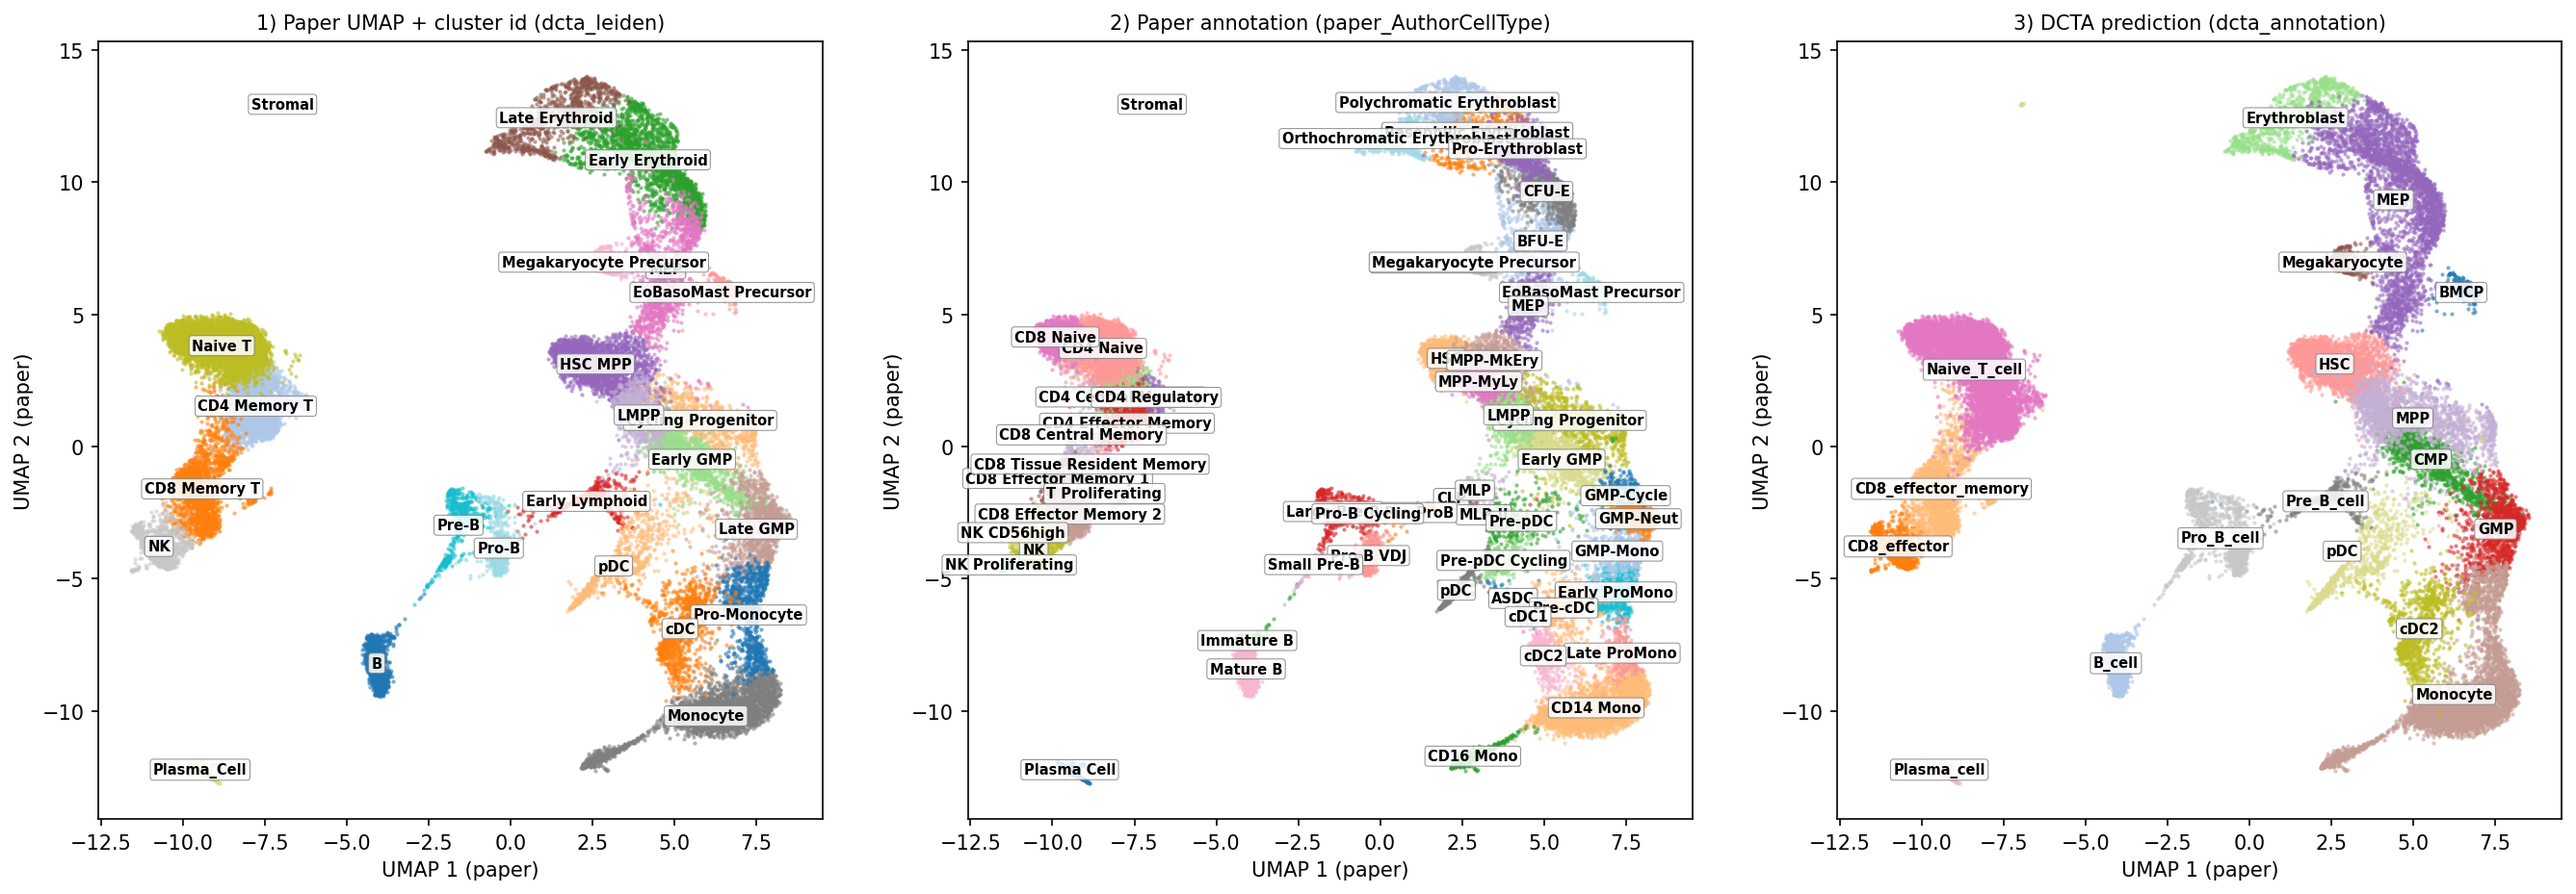
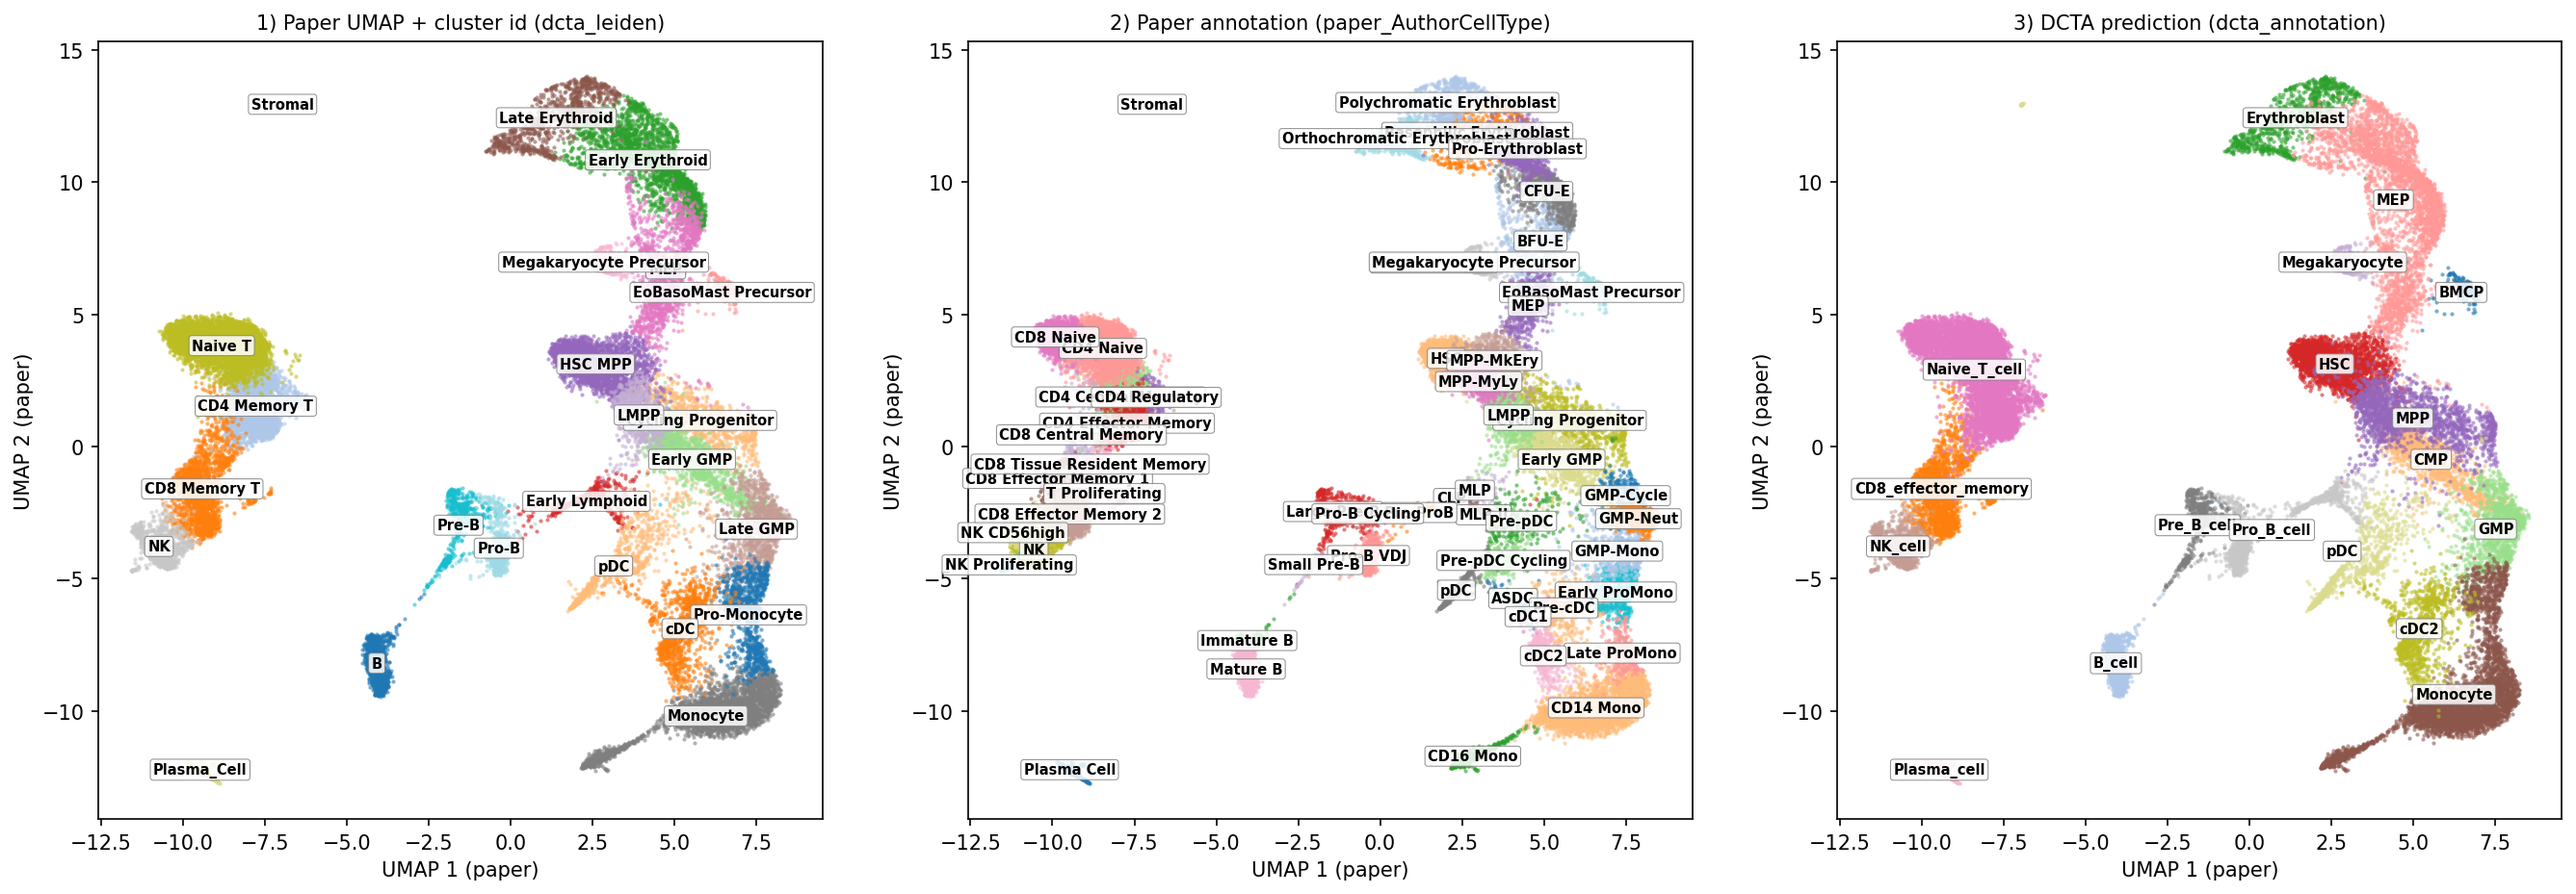
Phase 2.7: redesign B/T/NK marker panels from published references only
User directive: '논문에서만 따온걸 써, 데이터 특성은 쓰지말 것'.
Panels rebuilt strictly from published literature with citations in
the YAML (no Hay-data optimization).

Redesigned 8 cell types:
  Pro_B_cell : DNTT, RAG1, RAG2, EBF1, SOX4, IL7R
               (Hardy & Hayakawa 2001 ARI; Mårtensson 2010 Semin Immunol)
  Pre_B_cell : VPREB1, VPREB2, IGLL1, TCL1A, PAX5, CD79A, CD79B
               (Bagger 2019 NAR; Aoki 2018 Blood; Mårtensson 2010)
  B_cell     : MS4A1, IGHD, FCER2, BANK1, AIM2, NT5E, CD27
               (LeBien & Tedder 2008 Blood; Yokoyama 2002 J Immunol;
                Schroder & Tschopp 2010 Cell)
  Memory_B   : IGHG1-4, CD27, TNFRSF17, MS4A1, AIM2
               (Klein 1998; O'Connor 2004 J Exp Med)
  NK_cell    : KLRF1, KLRD1, KLRC1, NCAM1, FCGR3A, NCR1, NCR3, GNLY,
               PRF1, GZMB, NKG7
               (Vivier 2011 Science; Cooper 2001 TI; Moretta 2001 ARI)
  Naive_T    : CCR7, SELL, S1PR1, LEF1, TCF7, IL7R, CD3D, CD3E
               (Sallusto 1999 Nature; Matloubian 2004 Nature;
                Schluns 2000 Nat Immunol)
  CD4_T      : CD4, IL7R, GATA3, TBX21, RORC, CCR4, CCR6, CD3D, CD3E
               (Zhu 2010 ARI)
  Cytotoxic_CD8: CD8A, CD8B, GZMK, EOMES, TBX21, CD27, CD28, CD3D, CD3E
               (Bratke 2005 EJI; Patil 2018 Sci Immunol)

Each YAML entry now carries an inline comment block listing the
sources for the marker selection. Removed pan-B markers from
stage-specific panels (CD19/PAX5/CD79A no longer cross-contaminate
[…]

Changed region(s): [[0.8381, 0.0936, 0.9933, 0.8741], [0.7139, 0.437, 0.776, 0.6555]]

diff --git a/STATE.md b/STATE.md
@@ -125,6 +125,66 @@ Changed `dcta.dag._longest_path_length` to support `weight_mode="sum_weight"`
 (default flipped to weight-aware). Mean backbone edge weight 0.580 → 0.753;
 max-UMAP-jump 11.46 → 6.04. See commit `c23be9d`.
 
+### Phase 2.7 — Marker panel redesign (B-lineage + T + NK; literature-only) (2026-05-21)
+
+Motivation: Pro-B vs Pre-B were both labelled Pro_B_cell by marker-only
+argmax because original Pro_B_cell/Pre_B_cell panels shared CD19/PAX5/
+RAG1/CD79A; Hay's Pre-B cluster scored slightly higher on the Pro_B
+panel than on its own Pre_B panel. Similarly NK was mislabelled as
+CD8_effector because old NK panel missed CD3-discriminative + KLRF1
+modules.
+
+User directive: "논문에서만 따온걸 써, 데이터 특성은 쓰지말 것" —
+panels rebuilt strictly from published references (no Hay-data optimization).
+
+Redesigned (sources cited inline in YAML):
+  Pro_B_cell : DNTT, RAG1, RAG2, EBF1, SOX4, IL7R
+               (Hardy & Hayakawa 2001 ARI; Mårtensson 2010 Semin Immunol;
+                LeBien & Tedder 2008 Blood)
+  Pre_B_cell : VPREB1, VPREB2, IGLL1, TCL1A, PAX5, CD79A, CD79B
+               (Mårtensson 2010; Bagger 2019 NAR; Aoki 2018 Blood)
+  B_cell     : MS4A1, IGHD, FCER2, BANK1, AIM2, NT5E, CD27
+               (LeBien & Tedder 2008; Yokoyama 2002 J Immunol;
+                Schroder & Tschopp 2010 Cell)
+  Memory_B   : IGHG1-4, CD27, TNFRSF17, MS4A1, AIM2
+               (Klein 1998 J Immunol; O'Connor 2004 J Exp Med)
+  NK_cell    : KLRF1, KLRD1, KLRC1, NCAM1, FCGR3A, NCR1, NCR3, GNLY,
+               PRF1, GZMB, NKG7
+               (Vivier 2011 Science; Cooper 2001 TI; Moretta 2001 ARI)
+  Naive_T    : CCR7, SELL, S1PR1, LEF1, TCF7, IL7R, CD3D, CD3E
+               (Sallusto 1999 Nature; Matloubian 2004 Nature;
+                Willinger 2006 J Immunol; Schluns 2000 Nat Immunol)
+  CD4_T      : CD4, IL7R, GATA3, TBX21, RORC, CCR4, CCR6, CD3D, CD3E
+               (Zhu 2010 ARI; Schluns 2000 Nat Immunol)
+  Cytotoxic_CD8: CD8A, CD8B, GZMK, EOMES, TBX21, CD27, CD28, CD3D, CD3E
+               (Bratke 2005 EJI; Patil 2018 Sci Immunol;
+                Pearce 2003 Science)
+
+Zeng2025_BMM 30k results (paper_AuthorCellType_Broad clusters):
+                      marker-only baseline   DCTA full
+  Strict accuracy:    0.553                  0.574
+  Lineage accuracy:   0.956                  0.956
+  DCTA over baseline: +2.1pp (was +0.4pp before redesign)
+
+Per-class strict (key wins):
+  NK_cell                strict=1.000  (was 0.000; marker-only baseline
+                                        now also gets it right because
+                                        of CD3-negative + KLRF1 emphasis)
+  CD8_effector_memory    strict=1.000  (DAG parent-child rule corrects
+                                        marker-only's "CD8_effector")
+  Pro_B_cell             strict=1.000  (DAG corrects marker-only's
+                                        "Pre_B_cell")
+  Pre_B_cell             strict=0.723  (was 0.643 — improved)
+  B_cell, Plasma_cell, BMCP, MEP, HSC, GMP, Monocyte, cDC2, pDC: all 1.000
+
+Per-cluster disambig trace (cluster_disambig_reason):
+  16 / 24 clusters: marker argmax wins (margin ≥ 0.20)
+   8 / 24 clusters: ambiguous → DAG-aware decision
+       6 of these: DAG agrees with marker argmax
+       3 actual changes (Pro-B, CD8 Memory T, Early GMP)
+
+26/26 synthetic tests pass.
+
 ### Phase 2.6 — DAG-aware disambiguation (2026-05-21)
 
 Motivation: reviewer-class question — current DCTA picked
